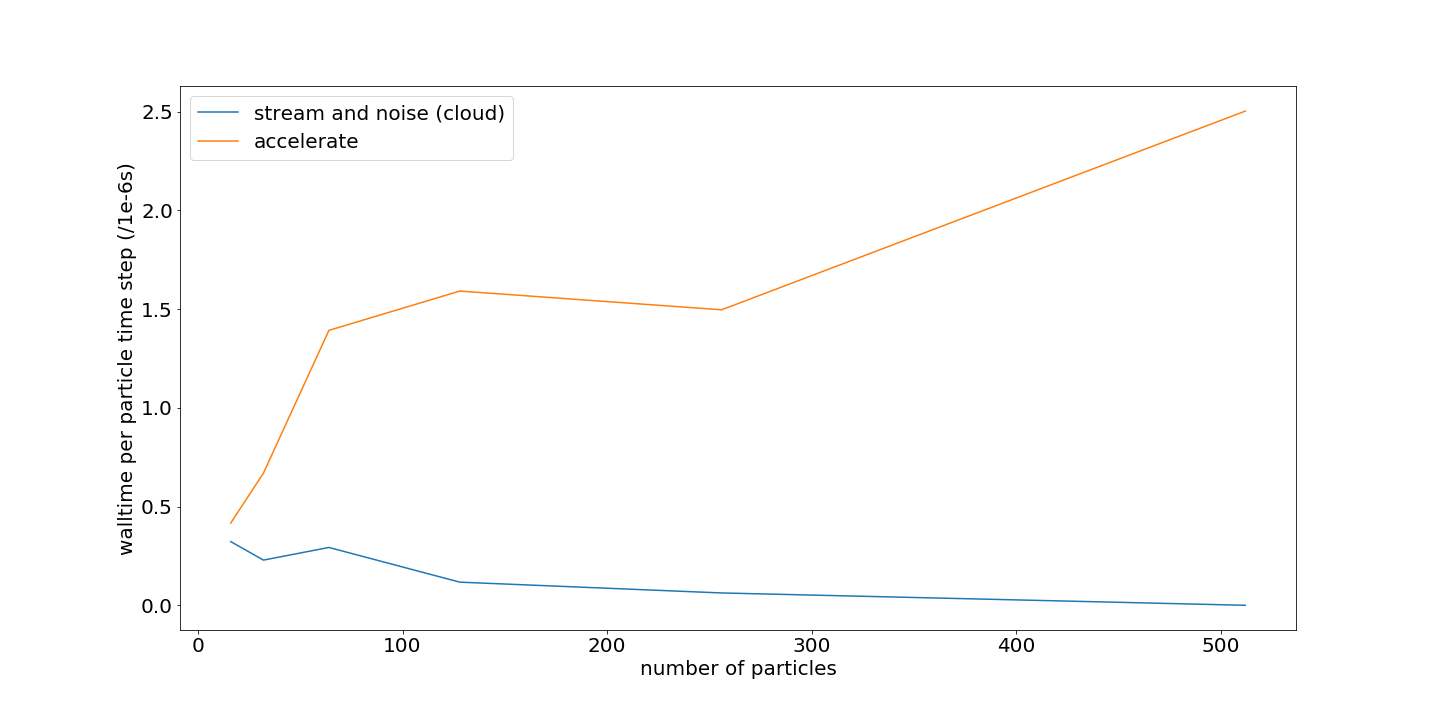
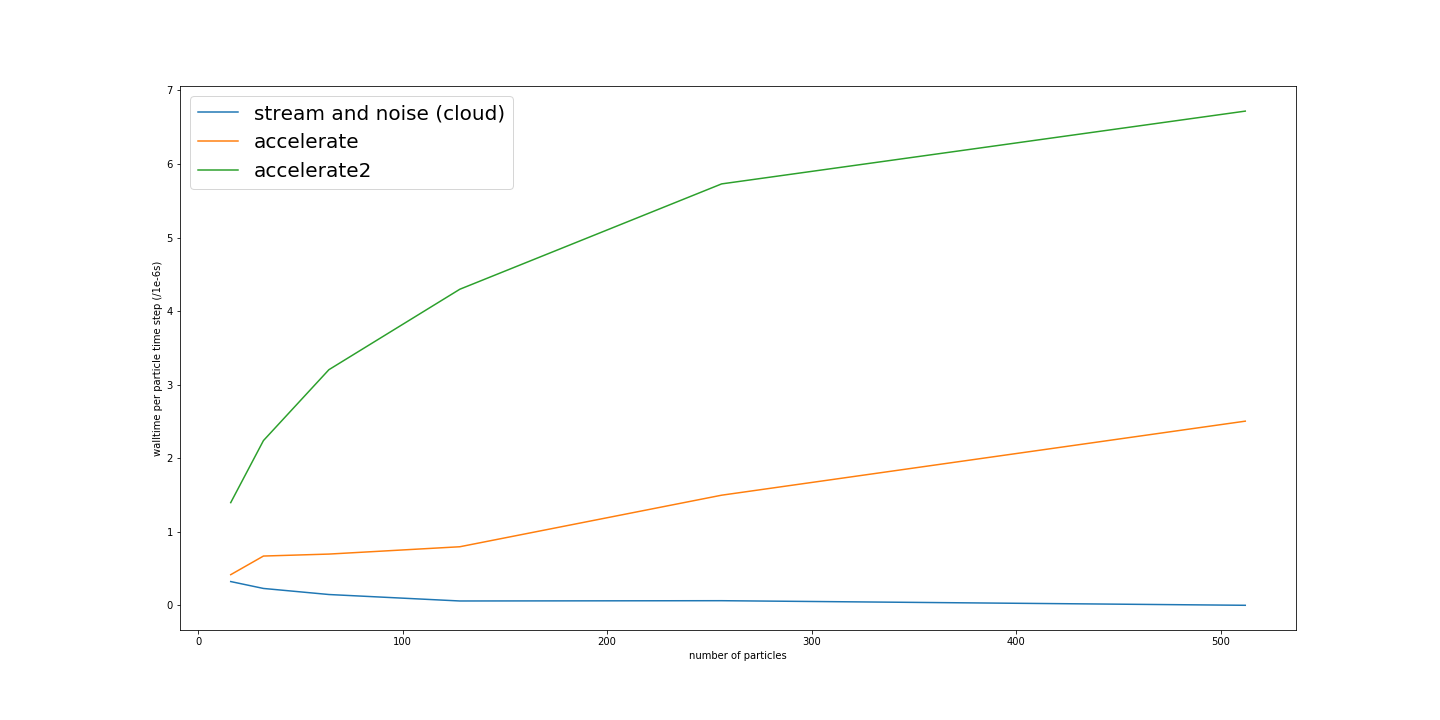
q2 finish

diff --git a/assignments/4-interacting-particles/verlet_accelerate2.c b/assignments/4-interacting-particles/verlet_accelerate2.c
@@ -6,10 +6,11 @@ void
 verlet_step_accelerate (int Np, double dt, const double *restrict X[3], double *restrict U[3])
 {
   // try to divide up work evenly among workers
-//   #pragma omp parallel for schedule(static)
+//   int i, j;
+//   #pragma omp parallel for schedule(static) private(i, j)
 //   for(int row = 0; row <= (Np-1) / 2; row ++ ){
 //       for (int col = 0; col < Np; col ++) {
-//           int i, j;
+
 //           if (row == (Np-1) / 2) {
 //               if (col <= row){
 //                   continue;
